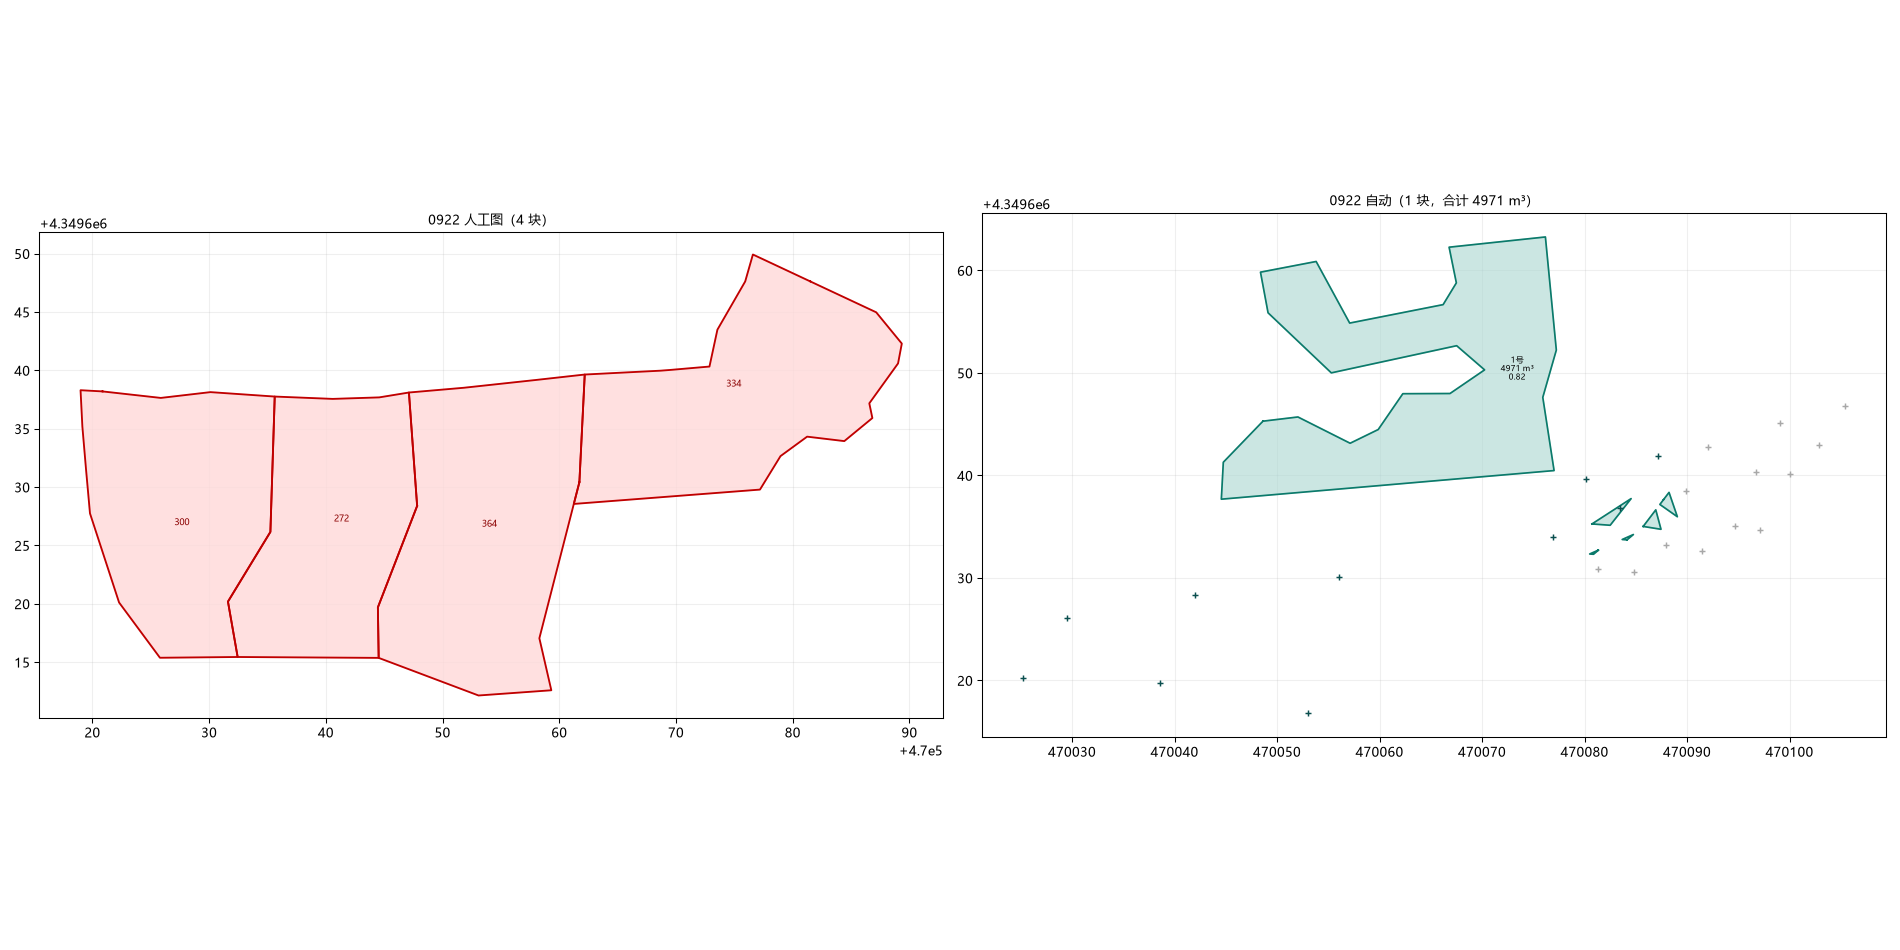
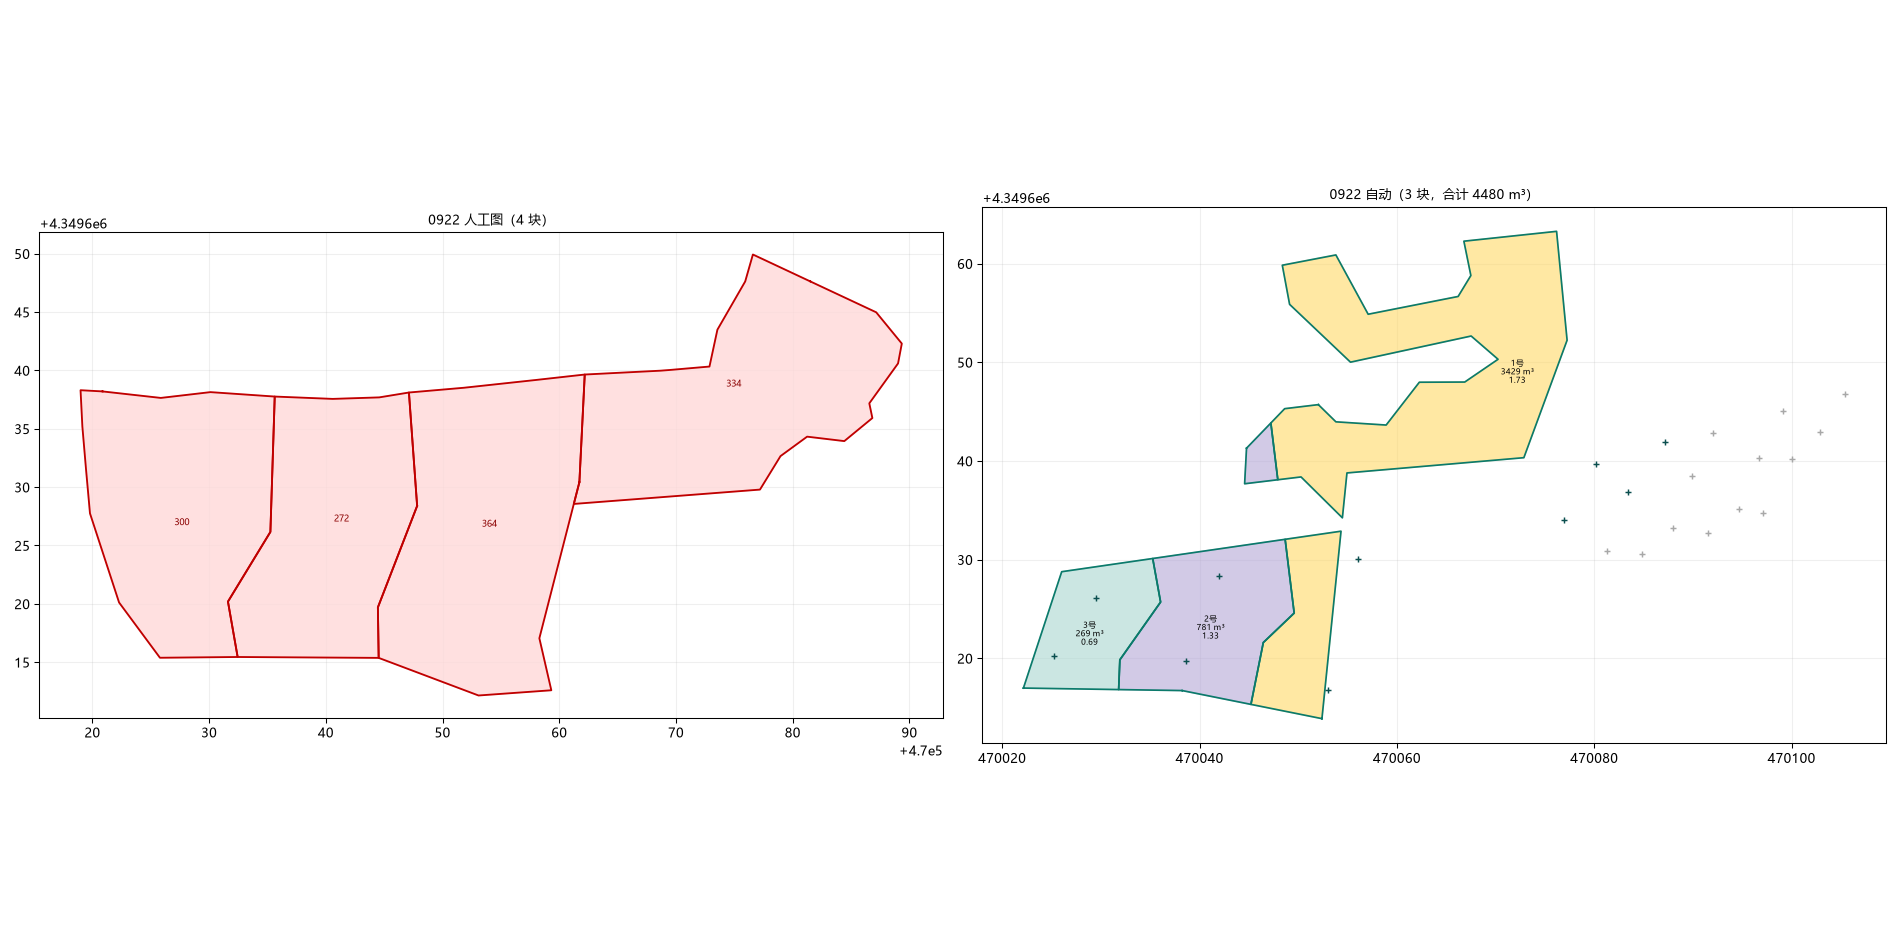
core: 孤立孔连接半径按用户确认改为 15 m（1004 主带 14→23 孔）

diff --git a/3DMine二次圈矿工具_初步原型/core/run_strip.py b/3DMine二次圈矿工具_初步原型/core/run_strip.py
@@ -35,7 +35,12 @@ def parse_tag(name: str):
     return plat, (d.group(1) if d else "")
 
 
-def pick_zone(holes, gap=1.0, adjacent_max=8.8):
+# 孤立孔判定：矿孔之间相距 ≤ 15 m 才算"连在同一条矿化带上"（用户 2026-10-10 定）。
+# 依据：1004 人工图把北边间隔 10.6~13.9 m 的孔都连成一条；1008 的 P43 离主带 21.4 m 没圈。
+ZONE_LINK_M = 15.0
+
+
+def pick_zone(holes, gap=1.0, adjacent_max=ZONE_LINK_M):
     """返回 (主矿化带矿孔, 待取样孤立孔组)。"""
     ore = [h for h in holes.values() if h.grade >= 0.5]
     kept = []

diff --git a/3DMine二次圈矿工具_初步原型/口径确认记录.md b/3DMine二次圈矿工具_初步原型/口径确认记录.md
@@ -35,6 +35,9 @@
 7. **合并范围**：只并**矿界真正接上的那一块**历史矿块；离得远的大轮廓（1008 里那块 725 m²、图层 `0`）**不并**（2026-10-10 确认）。
 8. **空白区**：圈不闭的区域在图上单独图层画出来 + 备注"（缺工程，待取样验证后再进行施工）"；**报告里不列**。
 9. **孤立单孔**：周围都没到入选品位的单个有品位炮孔**不单独圈矿**，列入待取样区。
+   **连接半径 = 15 m**（2026-10-10 确认"尽量在 15 米以内才圈"）：矿孔之间相距 ≤15 m 才算
+   连在同一条矿化带上；超过 15 m 的独立成组、列待取样。
+   依据：1004 人工图把北边间隔 10.6~13.9 m 的孔都连成一条；1008 的 P43 离主带 21.4 m 没圈。
 
 ## C. 品位界限
 
